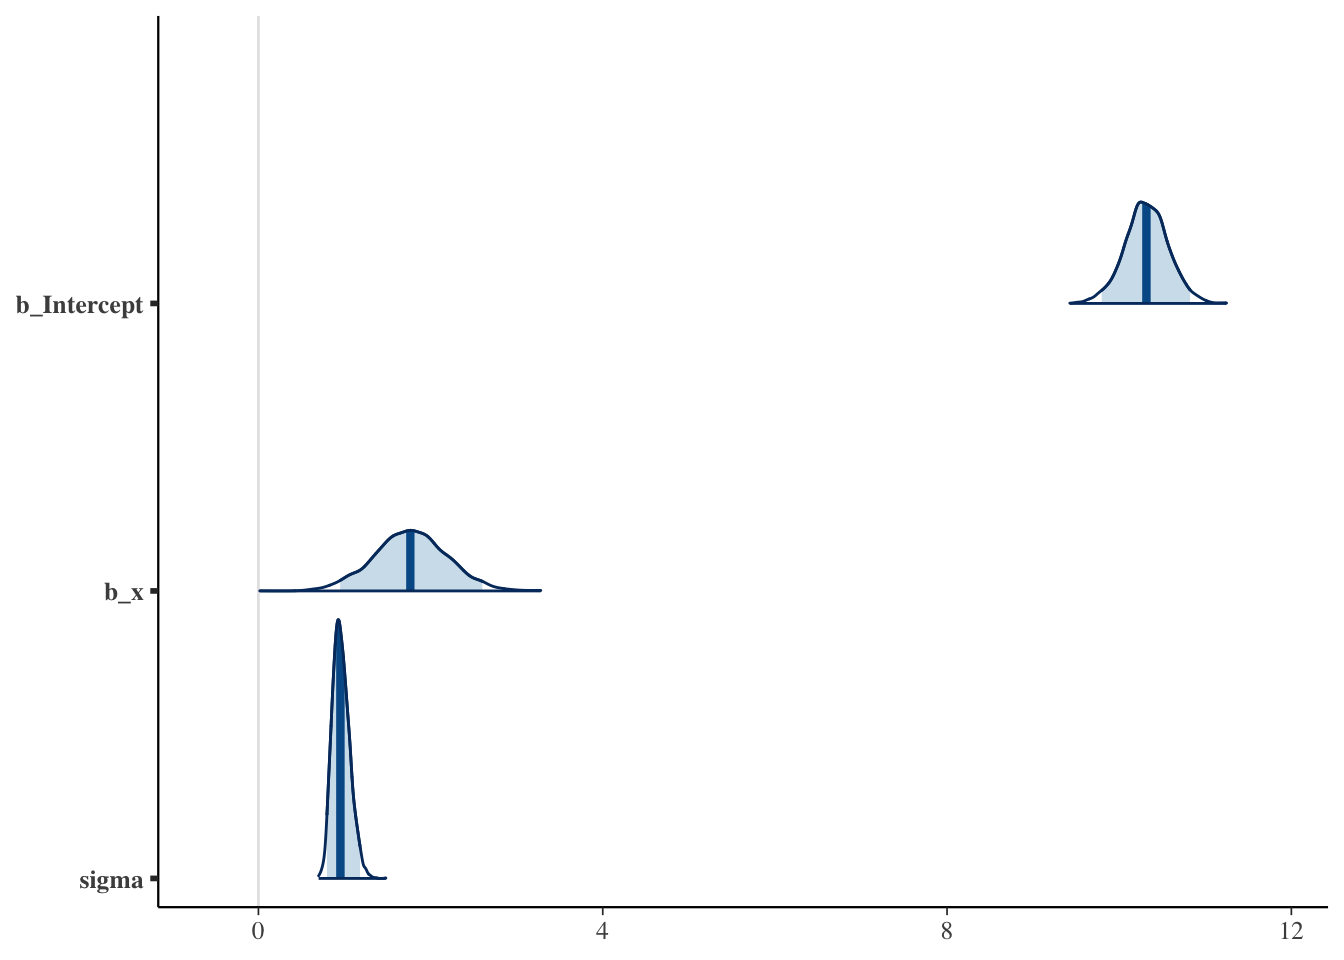
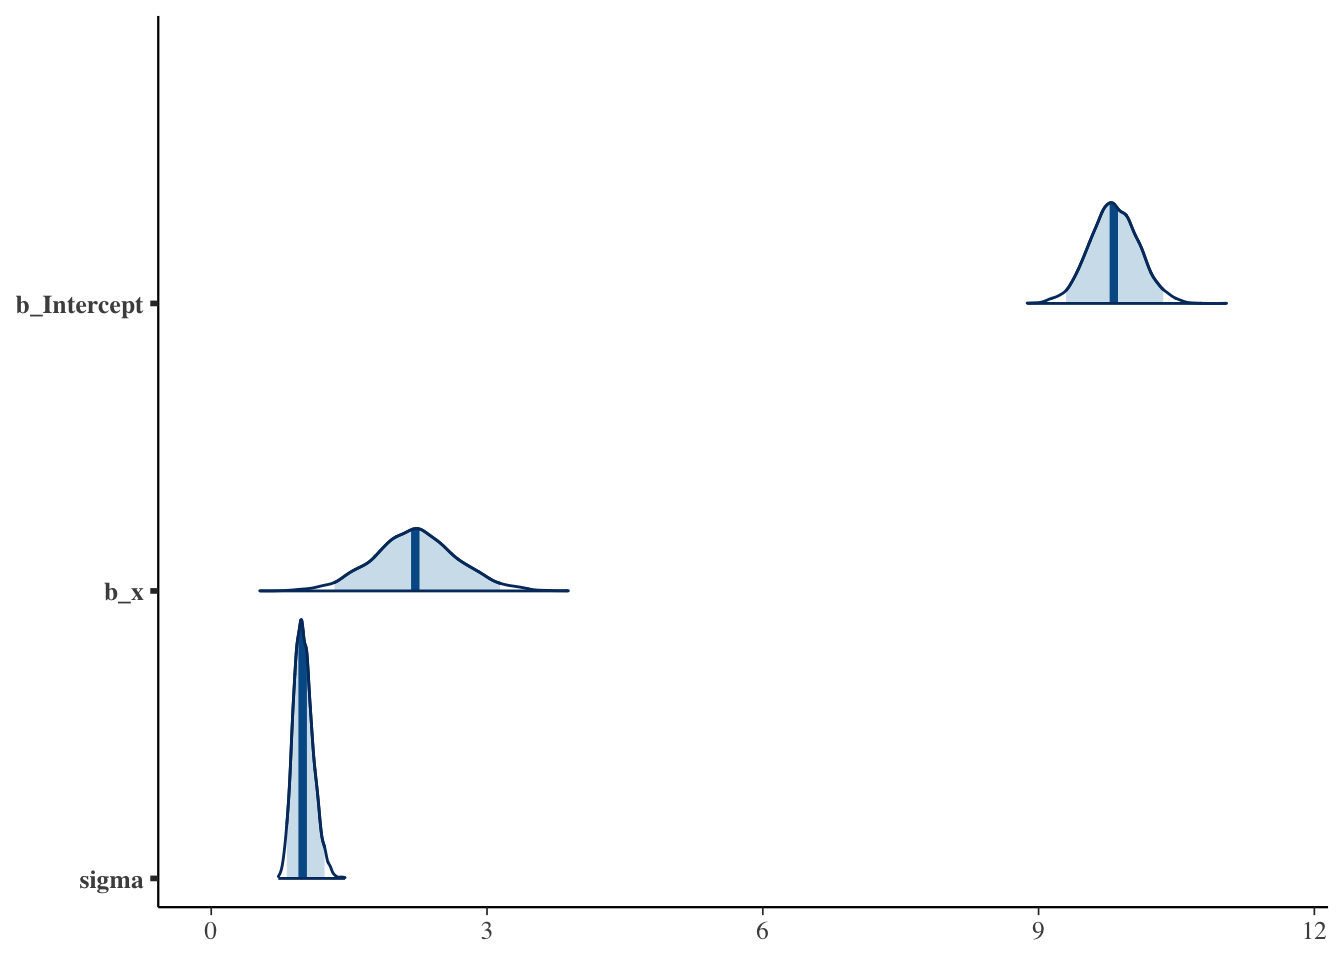
Minor edits to the regression plot

diff --git a/index.html b/index.html
@@ -127,16 +127,16 @@ code span.wa { color: #60a0b0; font-weight: bold; font-style: italic; } /* Warni
 <div class="cell">
 <div class="sourceCode cell-code" id="cb1"><pre class="sourceCode r code-with-copy"><code class="sourceCode r"><span id="cb1-1"><a href="#cb1-1" aria-hidden="true" tabindex="-1"></a><span class="fu">library</span>(tidyverse)</span>
 <span id="cb1-2"><a href="#cb1-2" aria-hidden="true" tabindex="-1"></a><span class="fu">library</span>(magrittr)</span>
-<span id="cb1-3"><a href="#cb1-3" aria-hidden="true" tabindex="-1"></a><span class="fu">library</span>(infer)</span>
+<span id="cb1-3"><a href="#cb1-3" aria-hidden="true" tabindex="-1"></a><span class="fu">library</span>(ggside)</span>
 <span id="cb1-4"><a href="#cb1-4" aria-hidden="true" tabindex="-1"></a><span class="fu">library</span>(brms)</span>
-<span id="cb1-5"><a href="#cb1-5" aria-hidden="true" tabindex="-1"></a><span class="fu">library</span>(posterior)</span>
-<span id="cb1-6"><a href="#cb1-6" aria-hidden="true" tabindex="-1"></a><span class="fu">library</span>(bayesplot)</span>
+<span id="cb1-5"><a href="#cb1-5" aria-hidden="true" tabindex="-1"></a><span class="fu">library</span>(tidybayes)</span>
+<span id="cb1-6"><a href="#cb1-6" aria-hidden="true" tabindex="-1"></a><span class="fu">library</span>(posterior)</span>
 <span id="cb1-7"><a href="#cb1-7" aria-hidden="true" tabindex="-1"></a><span class="fu">library</span>(bayestestR)</span>
-<span id="cb1-8"><a href="#cb1-8" aria-hidden="true" tabindex="-1"></a><span class="fu">library</span>(tidybayes)</span>
-<span id="cb1-9"><a href="#cb1-9" aria-hidden="true" tabindex="-1"></a><span class="fu">options</span>(</span>
-<span id="cb1-10"><a href="#cb1-10" aria-hidden="true" tabindex="-1"></a>  <span class="at">mc.cores =</span> parallel<span class="sc">::</span><span class="fu">detectCores</span>(),</span>
-<span id="cb1-11"><a href="#cb1-11" aria-hidden="true" tabindex="-1"></a>  <span class="at">brms.backend =</span> <span class="st">"cmdstanr"</span></span>
-<span id="cb1-12"><a href="#cb1-12" aria-hidden="true" tabindex="-1"></a>)</span></code><button title="Copy to Clipboard" class="code-copy-button"><i class="bi"></i></button></pre></div>
+<span id="cb1-8"><a href="#cb1-8" aria-hidden="true" tabindex="-1"></a><span class="fu">options</span>(</span>
+<span id="cb1-9"><a href="#cb1-9" aria-hidden="true" tabindex="-1"></a>  <span class="at">mc.cores =</span> parallel<span class="sc">::</span><span class="fu">detectCores</span>(),</span>
+<span id="cb1-10"><a href="#cb1-10" aria-hidden="true" tabindex="-1"></a>  <span class="at">brms.backend =</span> <span class="st">"cmdstanr"</span></span>
+<span id="cb1-11"><a href="#cb1-11" aria-hidden="true" tabindex="-1"></a>)</span>
+<span id="cb1-12"><a href="#cb1-12" aria-hidden="true" tabindex="-1"></a><span class="fu">set.seed</span>(<span class="dv">19780503</span>)</span></code><button title="Copy to Clipboard" class="code-copy-button"><i class="bi"></i></button></pre></div>
 </div>
 <section id="resources" class="level2">
 <h2 class="anchored" data-anchor-id="resources">Resources</h2>
@@ -155,7 +155,9 @@ code span.wa { color: #60a0b0; font-weight: bold; font-style: italic; } /* Warni
 </section>
 <section id="the-data-generation-process" class="level2">
 <h2 class="anchored" data-anchor-id="the-data-generation-process">The data generation process</h2>
-<p>Data story &gt; Data generation process &gt; Generative model (function that takes parameters and returns data/observations/sample).</p>
+<p>Data story/Data Generation Process &gt; DAG/Structural Causal Model &gt; Generative Probabilistic Model (function that takes parameters and returns data/observations/sample).</p>
+<p><img src="images/image-710461311.png" class="img-fluid"></p>
+<p><img src="images/image-2080205927.png" class="img-fluid"></p>
 </section>
 <section id="linear-regression" class="level2">
 <h2 class="anchored" data-anchor-id="linear-regression">Linear regression</h2>
@@ -172,7 +174,7 @@ y_i \sim \mathcal{N}(\mu_i, \sigma)
 \mu_i = \beta_0 + \beta_1 x_i
 \]</span></p>
 <div class="cell">
-<div class="sourceCode cell-code" id="cb2"><pre class="sourceCode r code-with-copy"><code class="sourceCode r"><span id="cb2-1"><a href="#cb2-1" aria-hidden="true" tabindex="-1"></a>n <span class="ot">=</span> <span class="dv">10</span></span>
+<div class="sourceCode cell-code" id="cb2"><pre class="sourceCode r code-with-copy"><code class="sourceCode r"><span id="cb2-1"><a href="#cb2-1" aria-hidden="true" tabindex="-1"></a>n <span class="ot">=</span> <span class="dv">2</span></span>
 <span id="cb2-2"><a href="#cb2-2" aria-hidden="true" tabindex="-1"></a>beta0 <span class="ot">=</span> <span class="dv">10</span></span>
 <span id="cb2-3"><a href="#cb2-3" aria-hidden="true" tabindex="-1"></a>beta1 <span class="ot">=</span> <span class="dv">2</span></span>
 <span id="cb2-4"><a href="#cb2-4" aria-hidden="true" tabindex="-1"></a>sigma <span class="ot">=</span> <span class="dv">1</span></span>
@@ -191,90 +193,96 @@ y_i \sim \mathcal{N}(\mu_i, \sigma)
 <span id="cb2-17"><a href="#cb2-17" aria-hidden="true" tabindex="-1"></a></span>
 <span id="cb2-18"><a href="#cb2-18" aria-hidden="true" tabindex="-1"></a>d</span></code><button title="Copy to Clipboard" class="code-copy-button"><i class="bi"></i></button></pre></div>
 <div class="cell-output cell-output-stdout">
-<pre><code># A tibble: 50 × 2
+<pre><code># A tibble: 10 × 2
        x     y
    &lt;dbl&gt; &lt;dbl&gt;
- 1 0      7.90
- 2 0     10.0 
- 3 0     10.5 
- 4 0      9.80
- 5 0     11.1 
- 6 0.111  9.56
- 7 0.111  9.31
- 8 0.111 11.3 
- 9 0.111  9.86
-10 0.111 10.9 
-# … with 40 more rows</code></pre>
+ 1     0 11.0 
+ 2     0 11.5 
+ 3     0 10.3 
+ 4     0 11.4 
+ 5     0  9.92
+ 6     1 12.0 
+ 7     1 12.0 
+ 8     1 12.5 
+ 9     1 10.9 
+10     1 10.9 </code></pre>
 </div>
 <div class="sourceCode cell-code" id="cb4"><pre class="sourceCode r code-with-copy"><code class="sourceCode r"><span id="cb4-1"><a href="#cb4-1" aria-hidden="true" tabindex="-1"></a>d <span class="sc">%&gt;%</span> <span class="fu">ggplot</span>(<span class="fu">aes</span>(<span class="at">x =</span> x, <span class="at">y =</span> y, <span class="at">color =</span> <span class="fu">factor</span>(x))) <span class="sc">+</span></span>
 <span id="cb4-2"><a href="#cb4-2" aria-hidden="true" tabindex="-1"></a>  <span class="fu">geom_point</span>(<span class="at">alpha =</span> <span class="fl">0.5</span>, <span class="at">show.legend =</span> <span class="cn">FALSE</span>) <span class="sc">+</span></span>
-<span id="cb4-3"><a href="#cb4-3" aria-hidden="true" tabindex="-1"></a>  <span class="fu">geom_abline</span>(<span class="at">intercept =</span> beta0, <span class="at">slope =</span> beta1, <span class="at">linetype =</span> <span class="st">"dotted"</span>) <span class="sc">+</span></span>
-<span id="cb4-4"><a href="#cb4-4" aria-hidden="true" tabindex="-1"></a>  <span class="fu">theme_bw</span>()</span></code><button title="Copy to Clipboard" class="code-copy-button"><i class="bi"></i></button></pre></div>
+<span id="cb4-3"><a href="#cb4-3" aria-hidden="true" tabindex="-1"></a>  <span class="co"># geom_ysidedensity(color = "gray", fill = "grey", show.legend = FALSE) +</span></span>
+<span id="cb4-4"><a href="#cb4-4" aria-hidden="true" tabindex="-1"></a>  <span class="fu">geom_smooth</span>(<span class="at">method =</span> <span class="st">"lm"</span>, <span class="at">color =</span> <span class="st">"grey"</span>, <span class="at">show.legend =</span> <span class="cn">FALSE</span>) <span class="sc">+</span></span>
+<span id="cb4-5"><a href="#cb4-5" aria-hidden="true" tabindex="-1"></a>  <span class="fu">geom_abline</span>(<span class="at">intercept =</span> beta0, <span class="at">slope =</span> beta1) <span class="sc">+</span></span>
+<span id="cb4-6"><a href="#cb4-6" aria-hidden="true" tabindex="-1"></a>  <span class="fu">theme_bw</span>()</span></code><button title="Copy to Clipboard" class="code-copy-button"><i class="bi"></i></button></pre></div>
+<div class="cell-output cell-output-stderr">
+<pre><code>`geom_smooth()` using formula = 'y ~ x'</code></pre>
+</div>
 <div class="cell-output-display">
 <p><img src="index_files/figure-html/unnamed-chunk-2-1.png" class="img-fluid" width="672"></p>
 </div>
 </div>
 <div class="cell">
-<div class="sourceCode cell-code" id="cb5"><pre class="sourceCode r code-with-copy"><code class="sourceCode r"><span id="cb5-1"><a href="#cb5-1" aria-hidden="true" tabindex="-1"></a>l <span class="ot">=</span> <span class="fu">lm</span>(y <span class="sc">~</span> x, d)</span>
-<span id="cb5-2"><a href="#cb5-2" aria-hidden="true" tabindex="-1"></a><span class="fu">summary</span>(l)</span></code><button title="Copy to Clipboard" class="code-copy-button"><i class="bi"></i></button></pre></div>
+<div class="sourceCode cell-code" id="cb6"><pre class="sourceCode r code-with-copy"><code class="sourceCode r"><span id="cb6-1"><a href="#cb6-1" aria-hidden="true" tabindex="-1"></a>l <span class="ot">=</span> <span class="fu">lm</span>(y <span class="sc">~</span> x, d)</span>
+<span id="cb6-2"><a href="#cb6-2" aria-hidden="true" tabindex="-1"></a><span class="fu">summary</span>(l)</span></code><button title="Copy to Clipboard" class="code-copy-button"><i class="bi"></i></button></pre></div>
 <div class="cell-output cell-output-stdout">
 <pre><code>
 Call:
 lm(formula = y ~ x, data = d)
 
 Residuals:
-    Min      1Q  Median      3Q     Max 
--2.4072 -0.5612  0.0311  0.5115  2.1871 
+   Min     1Q Median     3Q    Max 
+-0.910 -0.709  0.236  0.545  0.880 
 
 Coefficients:
-            Estimate Std. Error t value             Pr(&gt;|t|)    
-(Intercept)   10.312      0.247   41.75 &lt; 0.0000000000000002 ***
-x              1.777      0.416    4.27             0.000092 ***
+            Estimate Std. Error t value      Pr(&gt;|t|)    
+(Intercept)   10.828      0.323    33.5 0.00000000069 ***
+x              0.822      0.457     1.8          0.11    
 ---
 Signif. codes:  0 '***' 0.001 '**' 0.01 '*' 0.05 '.' 0.1 ' ' 1
 
-Residual standard error: 0.94 on 48 degrees of freedom
-Multiple R-squared:  0.275, Adjusted R-squared:  0.26 
-F-statistic: 18.2 on 1 and 48 DF,  p-value: 0.0000921</code></pre>
+Residual standard error: 0.723 on 8 degrees of freedom
+Multiple R-squared:  0.288, Adjusted R-squared:  0.199 
+F-statistic: 3.23 on 1 and 8 DF,  p-value: 0.11</code></pre>
 </div>
 </div>
 <div class="cell">
-<div class="sourceCode cell-code" id="cb7"><pre class="sourceCode r code-with-copy"><code class="sourceCode r"><span id="cb7-1"><a href="#cb7-1" aria-hidden="true" tabindex="-1"></a><span class="fu">confint</span>(l)</span></code><button title="Copy to Clipboard" class="code-copy-button"><i class="bi"></i></button></pre></div>
+<div class="sourceCode cell-code" id="cb8"><pre class="sourceCode r code-with-copy"><code class="sourceCode r"><span id="cb8-1"><a href="#cb8-1" aria-hidden="true" tabindex="-1"></a><span class="fu">confint</span>(l)</span></code><button title="Copy to Clipboard" class="code-copy-button"><i class="bi"></i></button></pre></div>
 <div class="cell-output cell-output-stdout">
-<pre><code>             2.5 % 97.5 %
-(Intercept) 9.8153 10.809
-x           0.9403  2.615</code></pre>
+<pre><code>              2.5 % 97.5 %
+(Intercept) 10.0823 11.573
+x           -0.2322  1.876</code></pre>
 </div>
 </div>
 <div class="cell">
-<div class="sourceCode cell-code" id="cb9"><pre class="sourceCode r code-with-copy"><code class="sourceCode r"><span id="cb9-1"><a href="#cb9-1" aria-hidden="true" tabindex="-1"></a>b <span class="ot">=</span> <span class="fu">brm</span>(y <span class="sc">~</span> x, d)</span></code><button title="Copy to Clipboard" class="code-copy-button"><i class="bi"></i></button></pre></div>
+<div class="sourceCode cell-code" id="cb10"><pre class="sourceCode r code-with-copy"><code class="sourceCode r"><span id="cb10-1"><a href="#cb10-1" aria-hidden="true" tabindex="-1"></a>b <span class="ot">=</span> <span class="fu">brm</span>(y <span class="sc">~</span> x, d)</span></code><button title="Copy to Clipboard" class="code-copy-button"><i class="bi"></i></button></pre></div>
 </div>
 <div class="cell">
-<div class="sourceCode cell-code" id="cb10"><pre class="sourceCode r code-with-copy"><code class="sourceCode r"><span id="cb10-1"><a href="#cb10-1" aria-hidden="true" tabindex="-1"></a><span class="fu">summary</span>(b)</span></code><button title="Copy to Clipboard" class="code-copy-button"><i class="bi"></i></button></pre></div>
+<div class="sourceCode cell-code" id="cb11"><pre class="sourceCode r code-with-copy"><code class="sourceCode r"><span id="cb11-1"><a href="#cb11-1" aria-hidden="true" tabindex="-1"></a><span class="fu">summary</span>(b)</span></code><button title="Copy to Clipboard" class="code-copy-button"><i class="bi"></i></button></pre></div>
 <div class="cell-output cell-output-stdout">
 <pre><code> Family: gaussian 
   Links: mu = identity; sigma = identity 
 Formula: y ~ x 
-   Data: d (Number of observations: 50) 
+   Data: d (Number of observations: 10) 
   Draws: 4 chains, each with iter = 2000; warmup = 1000; thin = 1;
          total post-warmup draws = 4000
 
 Population-Level Effects: 
           Estimate Est.Error l-95% CI u-95% CI Rhat Bulk_ESS Tail_ESS
-Intercept    10.32      0.25     9.80    10.82 1.00     3912     2797
-x             1.77      0.42     0.95     2.60 1.00     3727     2638
+Intercept    10.82      0.40     9.98    11.65 1.00     2664     2028
+x             0.83      0.58    -0.36     1.98 1.00     2916     1963
 
 Family Specific Parameters: 
       Estimate Est.Error l-95% CI u-95% CI Rhat Bulk_ESS Tail_ESS
-sigma     0.96      0.10     0.80     1.18 1.00     3585     2748
+sigma     0.86      0.27     0.51     1.52 1.00     1860     1913
 
 Draws were sampled using sample(hmc). For each parameter, Bulk_ESS
 and Tail_ESS are effective sample size measures, and Rhat is the potential
 scale reduction factor on split chains (at convergence, Rhat = 1).</code></pre>
 </div>
-<div class="sourceCode cell-code" id="cb12"><pre class="sourceCode r code-with-copy"><code class="sourceCode r"><span id="cb12-1"><a href="#cb12-1" aria-hidden="true" tabindex="-1"></a><span class="fu">mcmc_plot</span>(b, <span class="at">type =</span> <span class="st">"areas"</span>, <span class="at">prob =</span> <span class="fl">0.95</span>) <span class="co"># launch_shinystan(b)</span></span></code><button title="Copy to Clipboard" class="code-copy-button"><i class="bi"></i></button></pre></div>
+</div>
+<div class="cell">
+<div class="sourceCode cell-code" id="cb13"><pre class="sourceCode r code-with-copy"><code class="sourceCode r"><span id="cb13-1"><a href="#cb13-1" aria-hidden="true" tabindex="-1"></a><span class="fu">mcmc_plot</span>(b, <span class="at">type =</span> <span class="st">"areas"</span>, <span class="at">prob =</span> <span class="fl">0.95</span>) <span class="co"># launch_shinystan(b)</span></span></code><button title="Copy to Clipboard" class="code-copy-button"><i class="bi"></i></button></pre></div>
 <div class="cell-output-display">
-<p><img src="index_files/figure-html/unnamed-chunk-6-1.png" class="img-fluid" width="672"></p>
+<p><img src="index_files/figure-html/unnamed-chunk-7-1.png" class="img-fluid" width="672"></p>
 </div>
 </div>
 </section>
